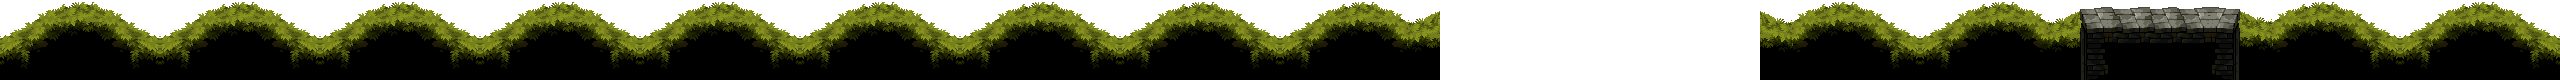
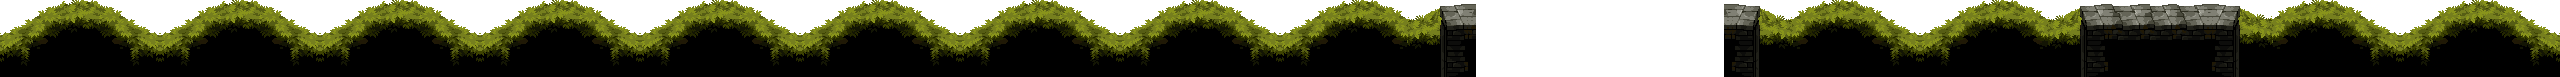
precarga de plataformas e inicio de level design

Changed region(s): [[0.0, 0.0, 0.5938, 1.0], [0.6562, 0.0, 1.0, 1.0]]

diff --git a/src/scenes/Preloader.js b/src/scenes/Preloader.js
@@ -10,8 +10,8 @@ export class Preloader extends Scene {
     this.load.tilemapTiledJSON("map", "./assets/map_test.json");
 
     /* ---------- Imagen Fondo ----------- */
-    this.load.image("background", "./assets/images/back_piso.png");
-    this.load.image("back_piso", "./assets/images/plat1.png");
+    this.load.image("background", "./assets/images/fondo.png");
+    this.load.image("back_piso", "./assets/images/back_piso.png");
     this.load.image("bg", "./assets/bg.png");
     this.load.image("tilePl", "./assets/images/platformTiled.png")
 
@@ -20,9 +20,12 @@ export class Preloader extends Scene {
     this.load.image("platform_mobile", "./assets/images/platform1.png");
     this.load.image("platform_falling", "./assets/images/platform2.png");
     this.load.image("plat1", "./assets/images/plat1.png");
+    this.load.image("plat_limite", "./assets/images/plat_limite.png");
     this.load.image("plat_alta", "./assets/images/plat_alta.png");
     this.load.image("plat_centro", "./assets/images/plat_centro.png");
     this.load.image("plat_esc", "./assets/images/plat_esc.png");
+    this.load.image("plat_cuad", "./assets/images/plat_cuad.png");
+    this.load.image("plat_larga", "./assets/images/plat_larga.png");
     this.load.image("plat4", "./assets/images/plat4.png");
     this.load.image("tilesSet", "./assets/images/Tiles.png");
 

diff --git a/src/scenes/Game_capas.js b/src/scenes/Game_capas.js
@@ -9,9 +9,19 @@ export class GameCapas extends Scene {
     }
     create() {
    const fondo = this.add.image(1280, 960, "background");
+   const backFondo = new Obstacle (this, 1280, 1910,"back_piso");
+   const platCentro = new Obstacle (this, 1600, 1872,"plat_centro");
+   const platLimite = new Obstacle (this,190,1641,"plat_limite")
    //const platf = this.physics.add.sprite(1280, 960, "tilePl" )
    const platEjemplo = new Obstacle (this,300, 250, "plat1")
    console.log(fondo);
+    /* this.load.image("plat_limite", "./assets/images/plat_limite.png");
+    this.load.image("plat_alta", "./assets/images/plat_alta.png");
+    this.load.image("plat_centro", "./assets/images/plat_centro.png");
+    this.load.image("plat_esc", "./assets/images/plat_esc.png");
+    this.load.image("plat_cuad", "./assets/images/plat_cuad.png");
+    this.load.image("plat_larga", "./assets/images/plat_larga.png");
+    this.load.image("plat4", "./assets/images/plat4.png"); */
     }
     update(){
 
